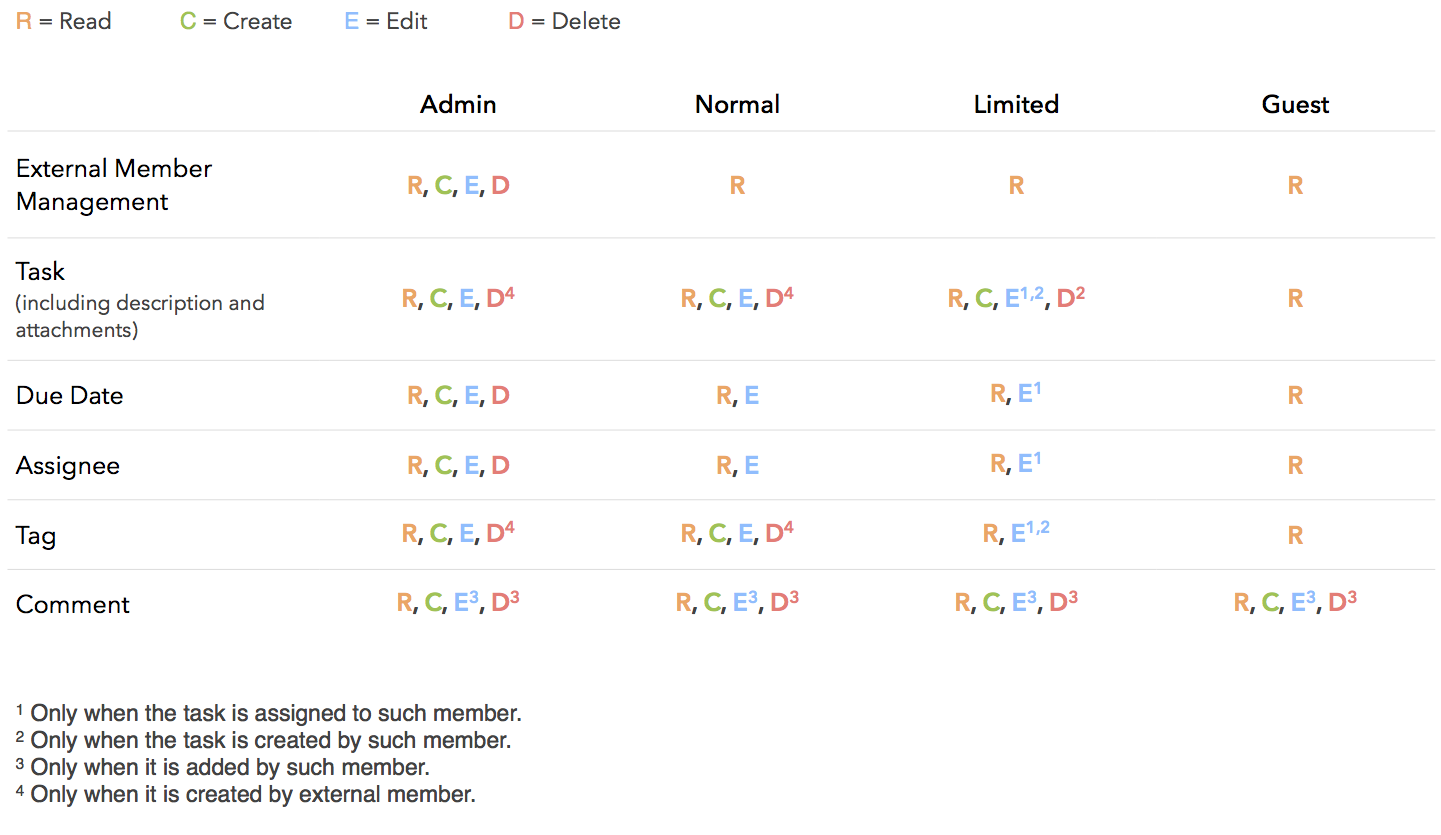
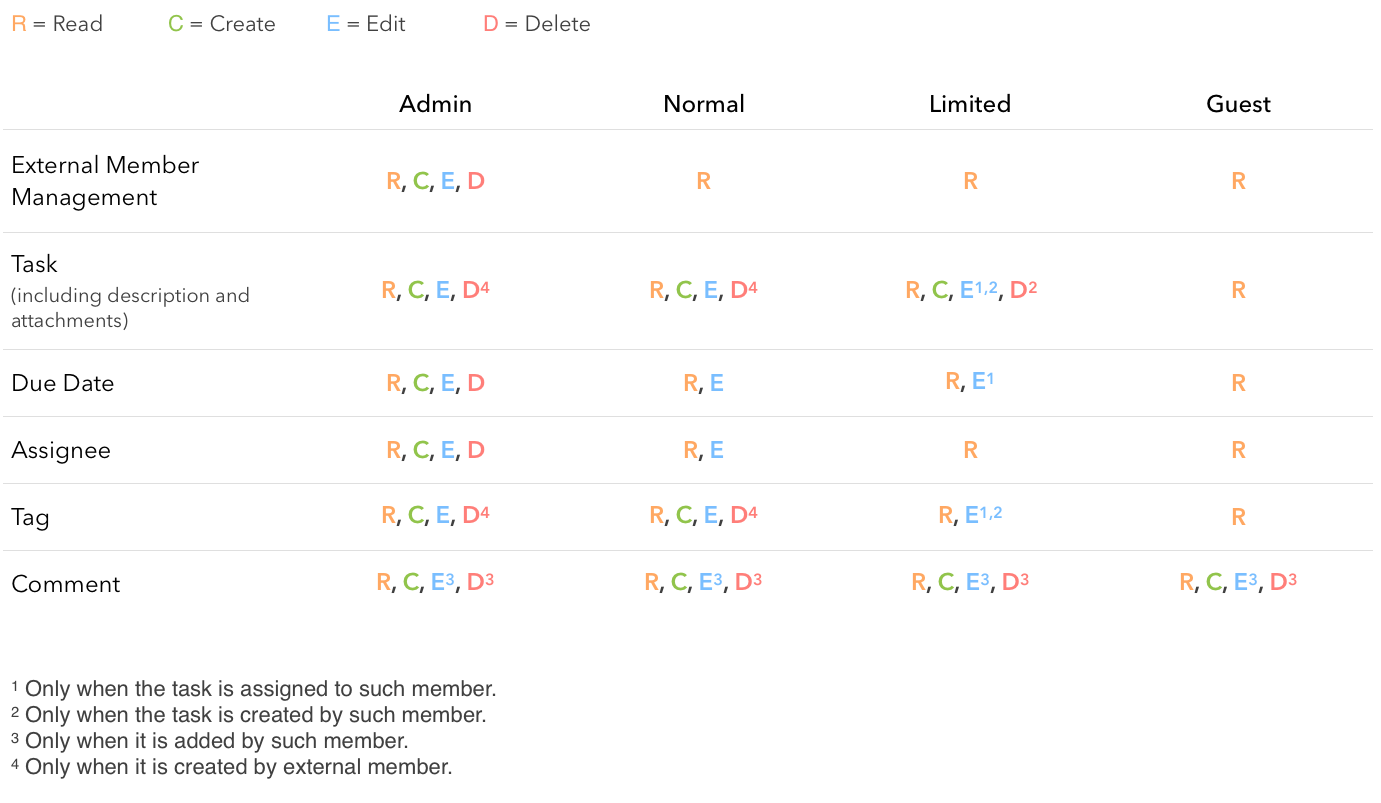
update limited permissions

diff --git a/_site/p/Roles-&-Permissions-in-Quire.html b/_site/p/Roles-&-Permissions-in-Quire.html
@@ -246,6 +246,8 @@
 
 </div>
 
+<h4 id="note-limited-members-can-only-complete-tasks-that-are-assigned-to-them">Note: Limited members can only complete tasks that are assigned to them.</h4>
+
 <hr>
 
 <h2 id="organization"><strong>Organization</strong></h2>
